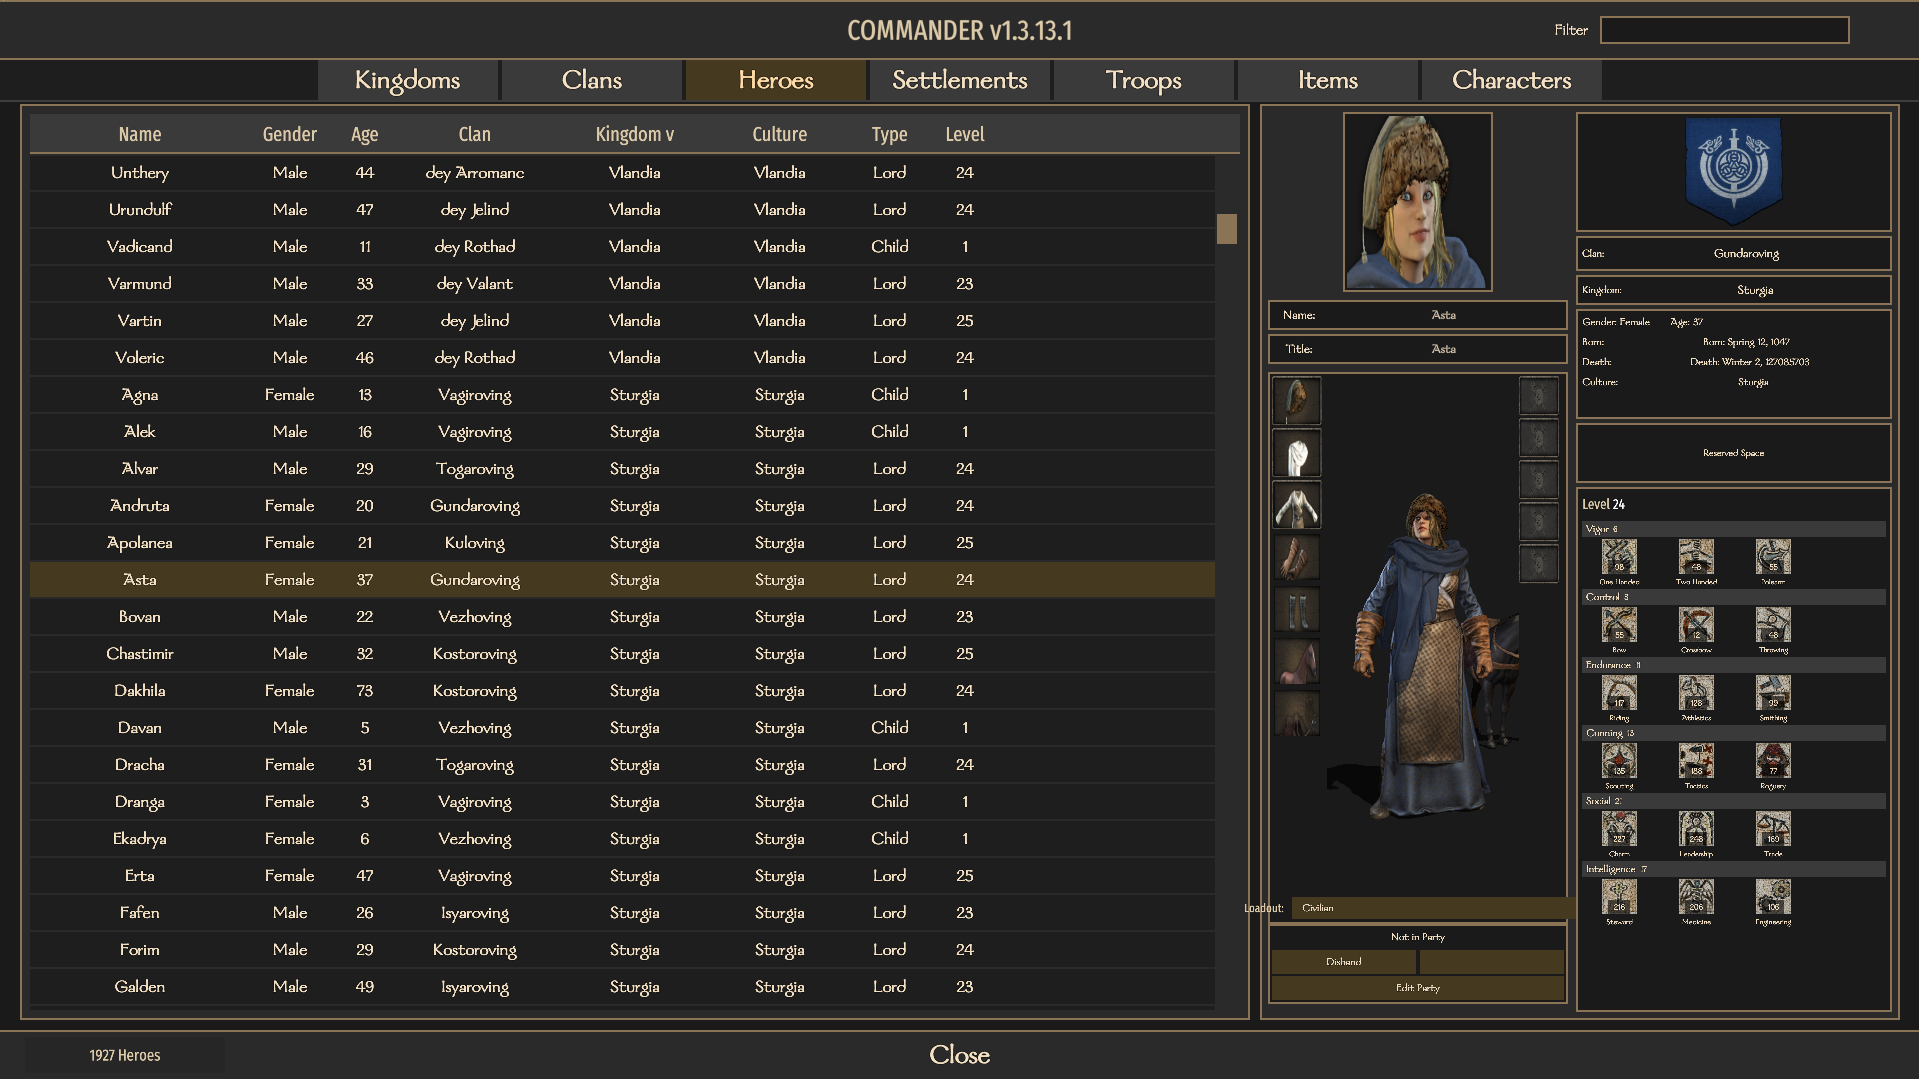
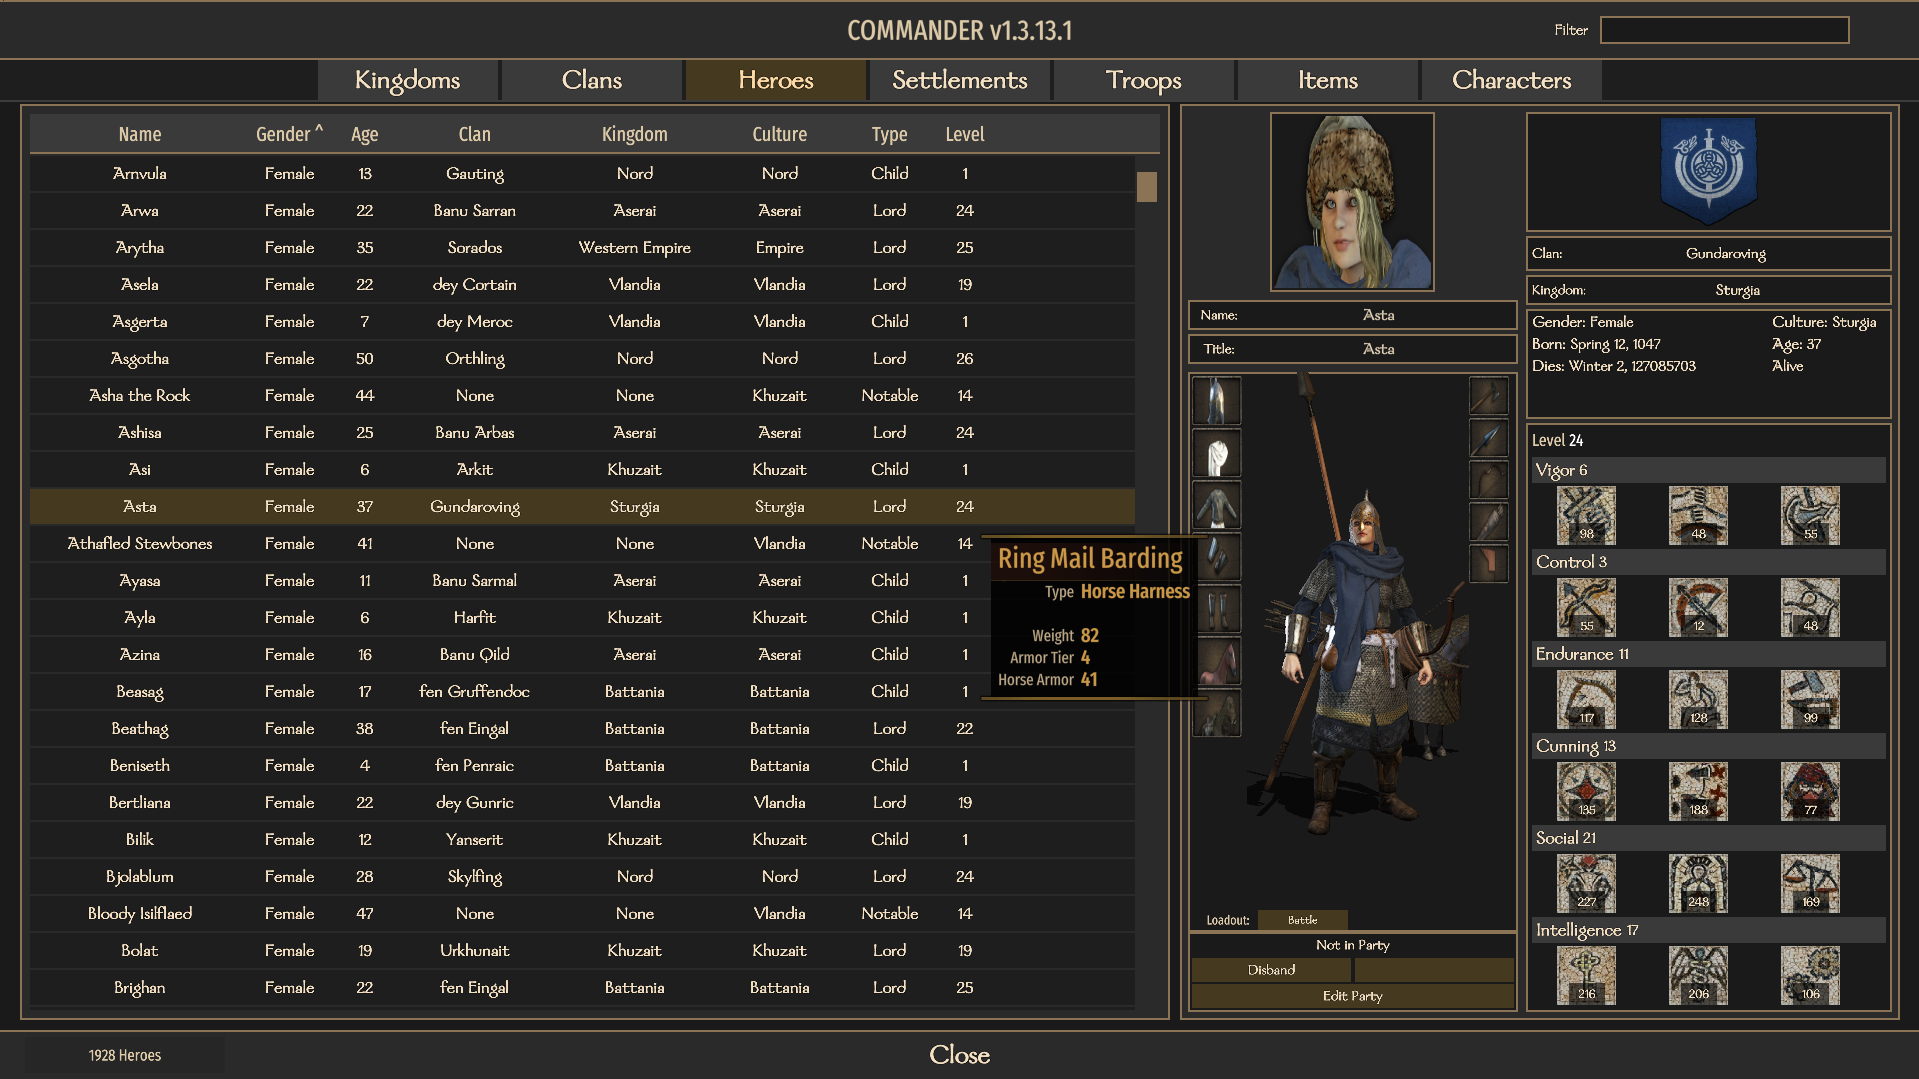
Improved HeroEditor Layout

diff --git a/Bannerlord.Commander/UI/ViewModels/HeroEditor/Panels/HeroIdentityInfoPanelVM.cs b/Bannerlord.Commander/UI/ViewModels/HeroEditor/Panels/HeroIdentityInfoPanelVM.cs
@@ -18,6 +18,8 @@ namespace Bannerlord.Commander.UI.ViewModels.HeroEditor.Panels
         private string _birthDateText;
         private string _deathDateText;
         private string _cultureName;
+        private string _aliveStatus;
+        private string _aliveStatusColor;
 
         #endregion
 
@@ -44,14 +46,26 @@ namespace Bannerlord.Commander.UI.ViewModels.HeroEditor.Panels
             {
                 Gender = _hero.IsFemale ? "Female" : "Male";
                 AgeText = ((int)_hero.Age).ToString();
-                BirthDateText = $"Born: {GetBirthDateDisplay(_hero)}";
+                BirthDateText = GetBirthDateDisplay(_hero);
 
                 // Show death date if one is set, regardless of whether hero is currently dead
                 string deathDisplay = GetDeathDateDisplay(_hero);
-                DeathDateText = deathDisplay != "-" ? $"Death: {deathDisplay}" : "Death: -";
+                DeathDateText = deathDisplay != "-" ? deathDisplay : "-";
 
                 // Culture information
                 CultureName = _hero.Culture?.Name?.ToString() ?? "Unknown";
+
+                // Alive/Dead status
+                if (_hero.IsAlive)
+                {
+                    AliveStatus = "Alive";
+                    AliveStatusColor = "#90EE90FF"; // Light green pastel
+                }
+                else
+                {
+                    AliveStatus = "Dead";
+                    AliveStatusColor = "#FFB3B3FF"; // Light red pastel
+                }
             }
             else
             {
@@ -78,6 +92,8 @@ namespace Bannerlord.Commander.UI.ViewModels.HeroEditor.Panels
             BirthDateText = "";
             DeathDateText = "";
             CultureName = "Unknown";
+            AliveStatus = "";
+            AliveStatusColor = "#FFFFFFFF";
         }
 
         #endregion
@@ -132,6 +148,26 @@ namespace Bannerlord.Commander.UI.ViewModels.HeroEditor.Panels
         {
             get => _cultureName;
             private set => SetProperty(ref _cultureName, value, nameof(CultureName));
+        }
+
+        /// <summary>
+        /// Gets the hero's alive/dead status text.
+        /// </summary>
+        [DataSourceProperty]
+        public string AliveStatus
+        {
+            get => _aliveStatus;
+            private set => SetProperty(ref _aliveStatus, value, nameof(AliveStatus));
+        }
+
+        /// <summary>
+        /// Gets the color for the alive/dead status text.
+        /// </summary>
+        [DataSourceProperty]
+        public string AliveStatusColor
+        {
+            get => _aliveStatusColor;
+            private set => SetProperty(ref _aliveStatusColor, value, nameof(AliveStatusColor));
         }
 
         #endregion
